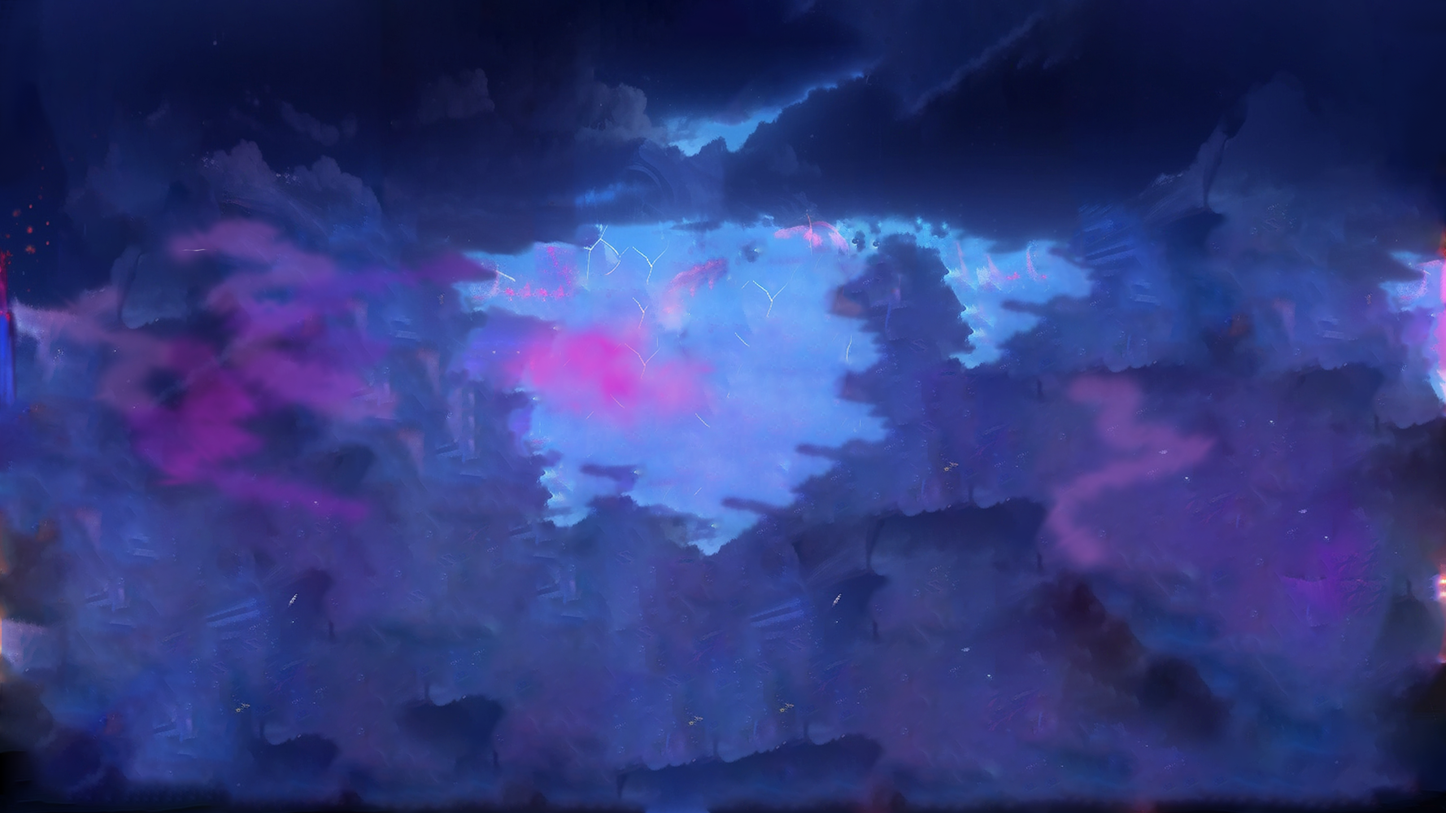
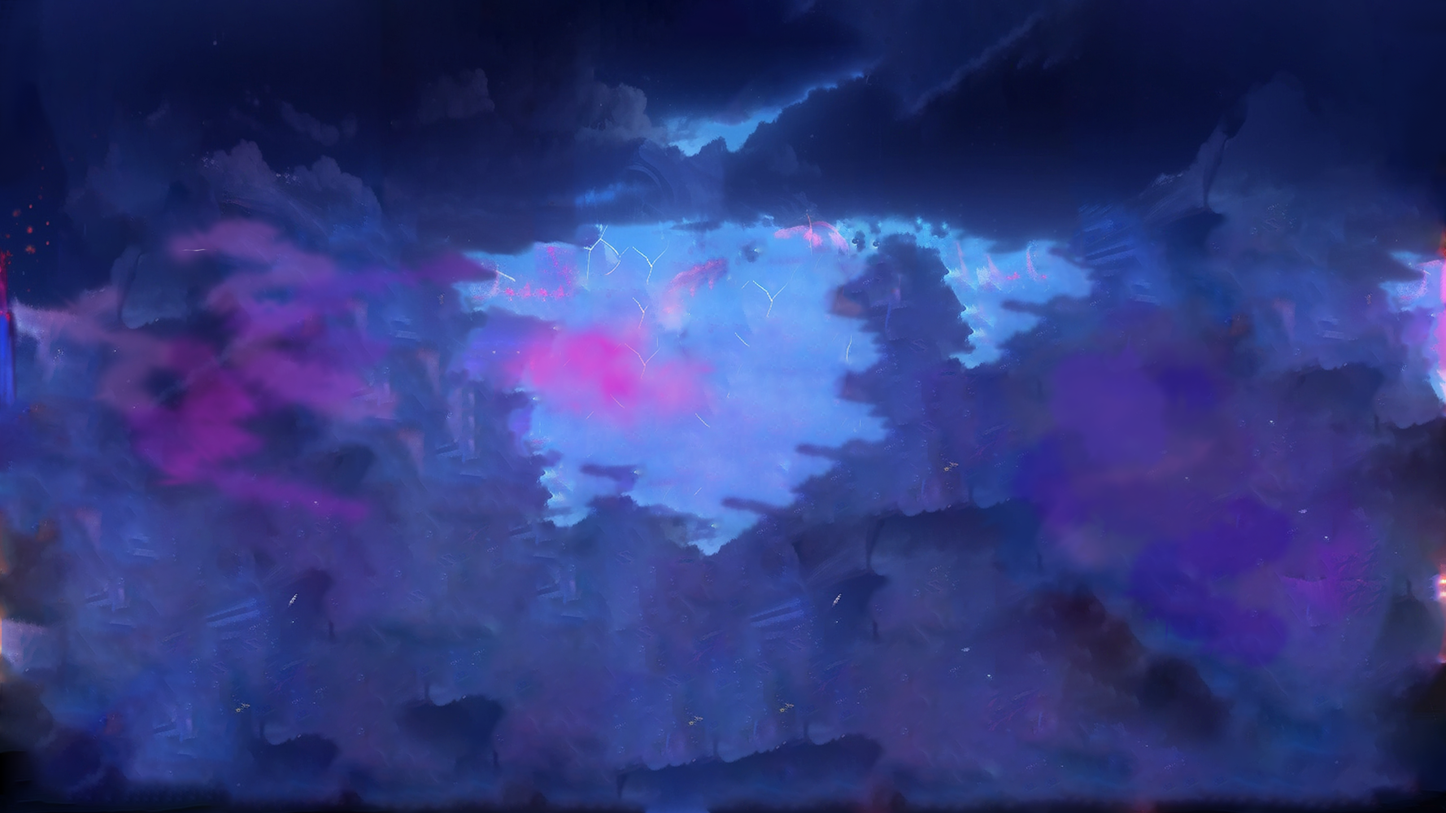
correct some layers

Changed region(s): [[0.7188, 0.4062, 0.8438, 0.6875]]

diff --git a/index.html b/index.html
@@ -15,8 +15,10 @@
       <div class="layers__item layer-3" style="background-image: url(public/layer3.png);"></div>
       <div class="layers__item layer-4" style="background-image: url(public/layer4.png);"></div>
       <div class="layers__item layer-5" style="background-image: url(public/layer5.png);"></div>
+      <div class="layers__item layer-5" style="background-image: url(public/layer6.png);"></div>
+
     </div>
-    <div class="theme" style="background-image: url(public/layer6.png);"></div>
+    <div class="theme" style="background-image: url(public/layer7.png);"></div>
   </section>
 </body>
 </html>

diff --git a/css/main.css b/css/main.css
@@ -53,19 +53,19 @@ body {
 }
 
 .layer-3 {
-  transform: translateZ(-200px);
+  transform: translateZ(-250px);
 }
 
 .layer-4 {
-  transform: translateZ(-190px);
+  transform: translateZ(-220px);
 }
 
 .layer-5 {
-  transform: translateZ(-80px);  
+  transform: translateZ(-120px);  
 }
 
 .layer-6 {
-  transform: translateZ(200px);  
+  transform: translateZ(-70px);  
 }
 
 /* .layer-7 {
